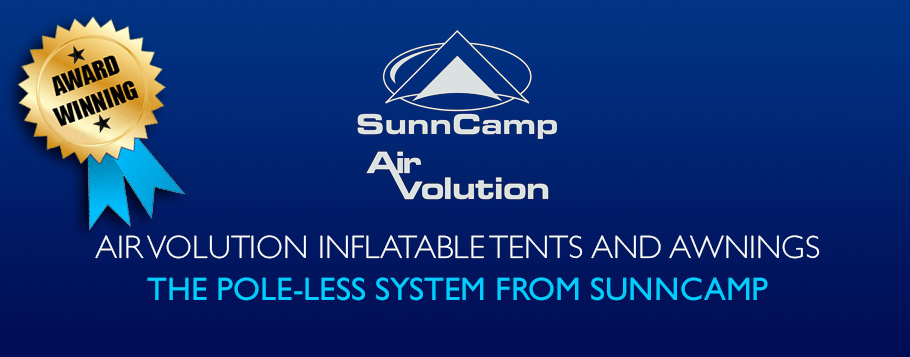
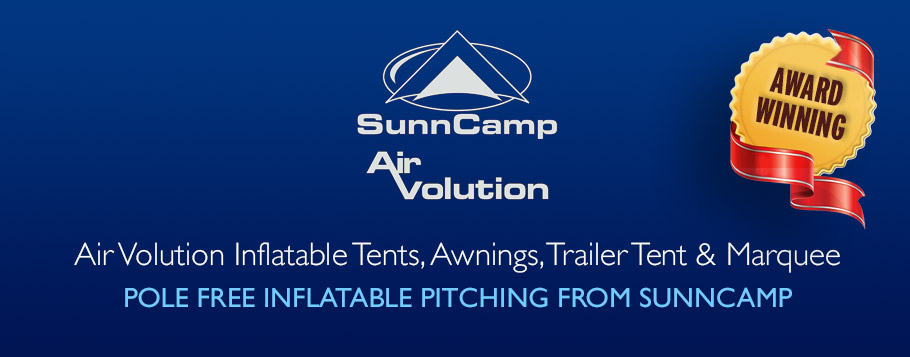
new slides

Changed region(s): [[0.0, 0.0308, 0.9231, 0.8627], [0.7385, 0.0616, 0.9846, 0.6471]]

diff --git a/application/views/slideshow/slideshow.php b/application/views/slideshow/slideshow.php
@@ -1,13 +1,13 @@
 <div id="slideshow">
 
     <div class="frontpage_slideshow">
-  		<img src="<?= base_url() ?>images/slides/Slide_1june2015.jpg"/>
+  		<img src="<?= base_url() ?>images/slides/Slide_1.jpg"/>
 		 <img src="<?= base_url() ?>images/slides/Slide_2.jpg"/>
 		 <!-- <img src="<?= base_url() ?>images/slides/AirVolution_Tents.jpg"/> -->
-		 <img src="<?= base_url() ?>images/slides/Slide_3June2015b.jpg"/>
-        <img src="<?= base_url() ?>images/slides/Slide_4b.jpg"/>
-      <img src="<?= base_url() ?>images/slides/Slide_5b.jpg"/>
-      <img src="<?= base_url() ?>images/slides/AirVolution_AwningsJune2015c.jpg"/>
+		 <img src="<?= base_url() ?>images/slides/Slide_3.jpg"/>
+        <img src="<?= base_url() ?>images/slides/Slide_4.jpg"/>
+      <img src="<?= base_url() ?>images/slides/Slide_5.jpg"/>
+      <img src="<?= base_url() ?>images/slides/Slide_6.jpg"/>
         
 
     </div>
